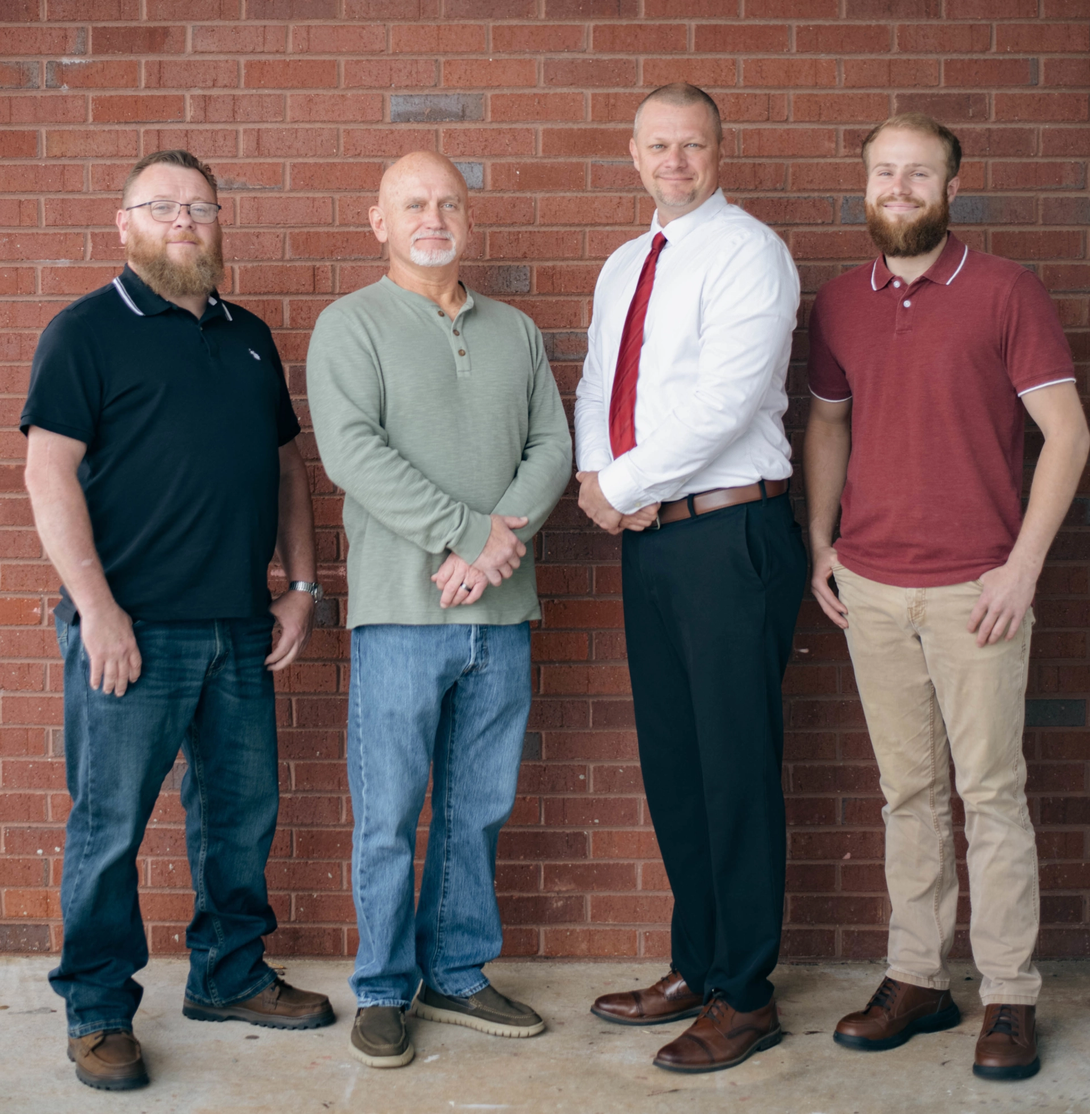
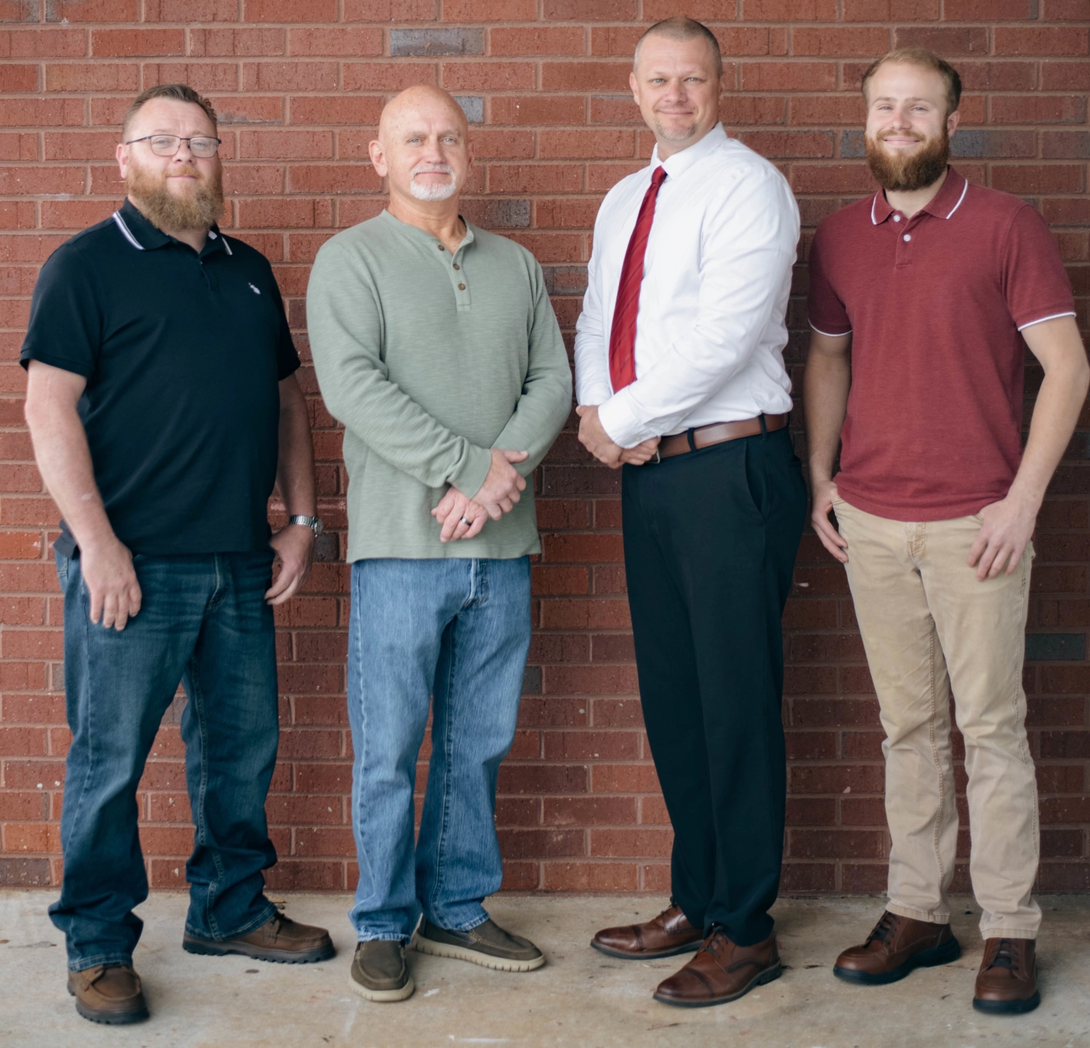
updated

diff --git a/src/app/(mainsite)/components/homepage/OurMission/OurMission.tsx b/src/app/(mainsite)/components/homepage/OurMission/OurMission.tsx
@@ -4,7 +4,7 @@ import Image from "next/image"
 export default function OurMission() {
   return (
     <section className={styles.ourMission} id="ourMission">
-        <Image className={styles.bgImg} src="/img/our_mission.webp" width={1024} height={512} alt="Photo of staff" />
+        
 
         <img src="./icons/cross.svg" aria-hidden className={styles.cross} />
         
@@ -13,6 +13,7 @@ export default function OurMission() {
 
             <p>To help men who are struggling with addictions become more productive members of the community and help them learn how to manange their lives, homes, and everyday relationships. We have established guidelines that are built on Biblical principles and the Lord Jesus Christ. Our desire is to help them with their mental, physical and spiritual needs, by providing an opportunity to change their lives through a personal relationship with Jesus Christ.</p>
         </div>
+        <Image className={styles.bgImg} src="/img/our_mission.webp" width={1024} height={512} alt="Photo of staff" />
     </section>
   )
 }

diff --git a/src/app/(mainsite)/components/homepage/Header/Header.tsx b/src/app/(mainsite)/components/homepage/Header/Header.tsx
@@ -23,7 +23,7 @@ export default function Header() {
         
       <a href="#ourMission" className={styles.downArrow}></a>
 
-        <div className="shader" style={{backgroundColor: "rgba(0,0,0,0.7)"}}></div>
+        <div className="shader" style={{backgroundColor: "rgba(0,0,0,0.5)"}}></div>
         <Image className="bg-img" style={{objectPosition: "top"}} src="/img/headerimg.webp" width={1280} height={720} alt="Image of happy family" />
     </header>
   )

diff --git a/src/app/(mainsite)/components/homepage/Photo/Photo.tsx b/src/app/(mainsite)/components/homepage/Photo/Photo.tsx
@@ -4,7 +4,7 @@ export default function Photo(){
 return (
  <div className={styles.photo}>
         <div className="center">
-            <img src="./img/group.webp" alt="group photo of the family" />
+            {/* <img src="./img/group.webp" alt="group photo of the family" /> */}
         </div>
  </div>
 )};

diff --git a/src/app/(mainsite)/components/homepage/OurMission/ourmission.module.css b/src/app/(mainsite)/components/homepage/OurMission/ourmission.module.css
@@ -96,7 +96,7 @@
 @media only screen and (max-width: 649px){
     .ourMission{
         padding: 9vw 5vw;
-        flex-direction: column;
+        flex-direction: column-reverse;
     }
     
     .bgImg{
